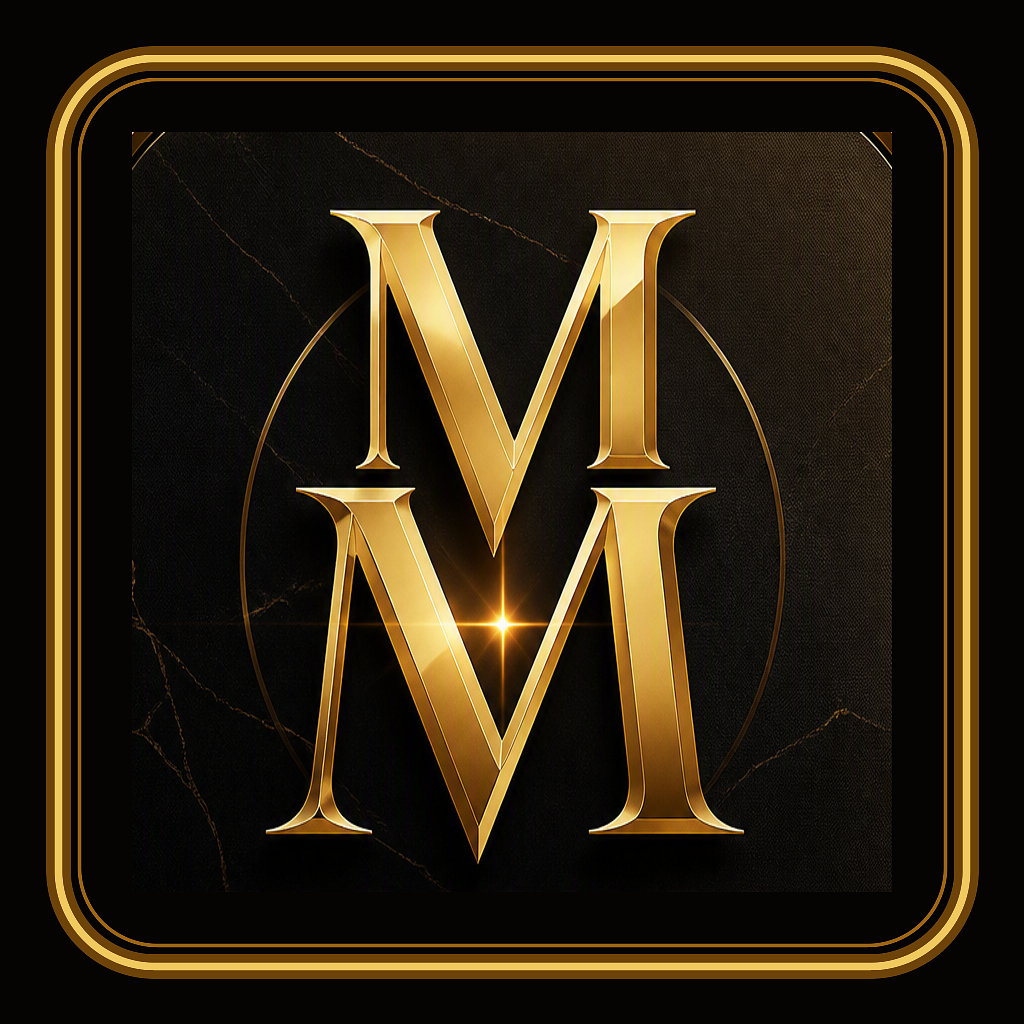
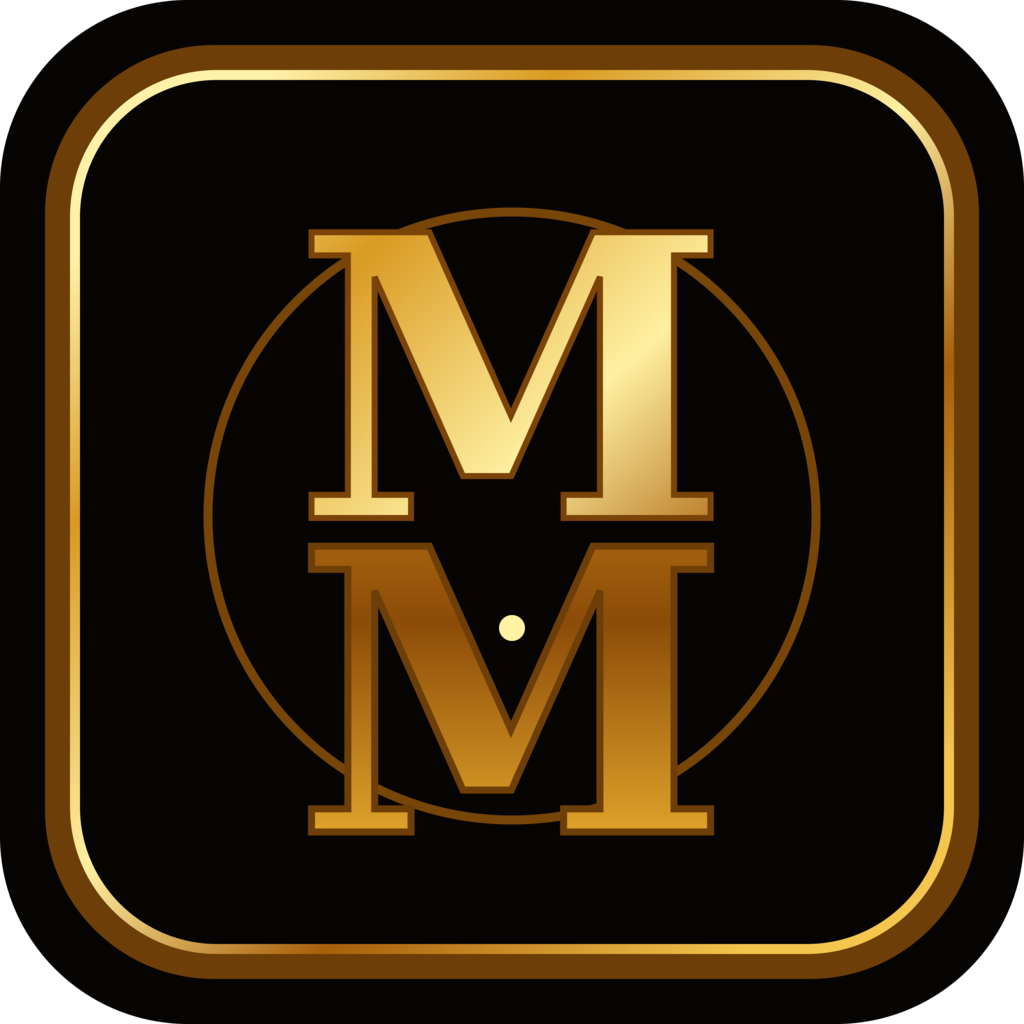
Update mobile app branding assets and configuration
Replit-Commit-Author: Agent

diff --git a/artifacts/mobile/components/MMLogo.tsx b/artifacts/mobile/components/MMLogo.tsx
@@ -1,5 +1,5 @@
-import React from 'react';
-import { View, StyleSheet } from 'react-native';
+import React, { useEffect, useRef } from 'react';
+import { Animated, Platform, View, StyleSheet } from 'react-native';
 import Svg, { Defs, LinearGradient, Stop, Text as SvgText, Rect, Circle } from 'react-native-svg';
 
 interface MMLogoProps {
@@ -11,9 +11,50 @@ export function MMLogo({ size = 60 }: MMLogoProps) {
   const totalHeight = size;
   const inset = size * 0.08;
   const corner = size * 0.18;
+  const breathing = useRef(new Animated.Value(0)).current;
+
+  useEffect(() => {
+    const animation = Animated.loop(
+      Animated.sequence([
+        Animated.timing(breathing, {
+          toValue: 1,
+          duration: 2200,
+          useNativeDriver: Platform.OS !== 'web',
+        }),
+        Animated.timing(breathing, {
+          toValue: 0,
+          duration: 2200,
+          useNativeDriver: Platform.OS !== 'web',
+        }),
+      ]),
+    );
+    animation.start();
+    return () => animation.stop();
+  }, [breathing]);
+
+  const glowOpacity = breathing.interpolate({
+    inputRange: [0, 1],
+    outputRange: [0.06, 0.18],
+  });
+  const glowScale = breathing.interpolate({
+    inputRange: [0, 1],
+    outputRange: [0.92, 1.08],
+  });
 
   return (
     <View style={[styles.container, { width, height: totalHeight }]}>
+      <Animated.View
+        style={[
+          styles.glow,
+          {
+            width: width * 0.78,
+            height: totalHeight * 0.78,
+            borderRadius: corner,
+            opacity: glowOpacity,
+            transform: [{ scale: glowScale }],
+          },
+        ]}
+      />
       <Svg width={width} height={totalHeight} viewBox={`0 0 ${width} ${totalHeight}`}>
         <Defs>
           <LinearGradient id="goldMain" x1="0" y1="0" x2="1" y2="1">
@@ -111,6 +152,17 @@ const styles = StyleSheet.create({
   container: {
     alignItems: 'center',
     justifyContent: 'center',
-    overflow: 'hidden',
+    overflow: 'visible',
+  },
+  glow: {
+    position: 'absolute',
+    alignSelf: 'center',
+    pointerEvents: 'none',
+    backgroundColor: '#D99A22',
+    shadowColor: '#F5C64E',
+    shadowOffset: { width: 0, height: 0 },
+    shadowOpacity: 0.9,
+    shadowRadius: 12,
+    elevation: 8,
   },
 });

diff --git a/.agents/memory/american-mode-premium-theme.md b/.agents/memory/american-mode-premium-theme.md
@@ -14,3 +14,9 @@ Brand artwork should use a black-and-metallic-gold framed MM mark consistently i
 **Why:** Launcher icons are rendered small and aggressively masked, while the full wordmark is not readable at that size; a compact monogram preserves the identity and survives mobile safe areas.
 
 **How to apply:** Use a framed MM crop for the launcher icon and favicon, and a vector gold framed monogram for the in-app logo. Keep badges and the full wordmark out of the launcher asset.
+
+The Android launcher must define an explicit black adaptive-icon background and a transparent gold foreground; otherwise Android can place the mark on a default white field and make it appear undersized.
+
+**Why:** The previous raster icon and missing adaptive-icon configuration produced a white launcher surround and made the logo look unrelated to the in-app mark.
+
+**How to apply:** Keep the native launcher artwork and in-app logo generated from the same vector mark, with a black fallback icon and transparent adaptive foreground.
